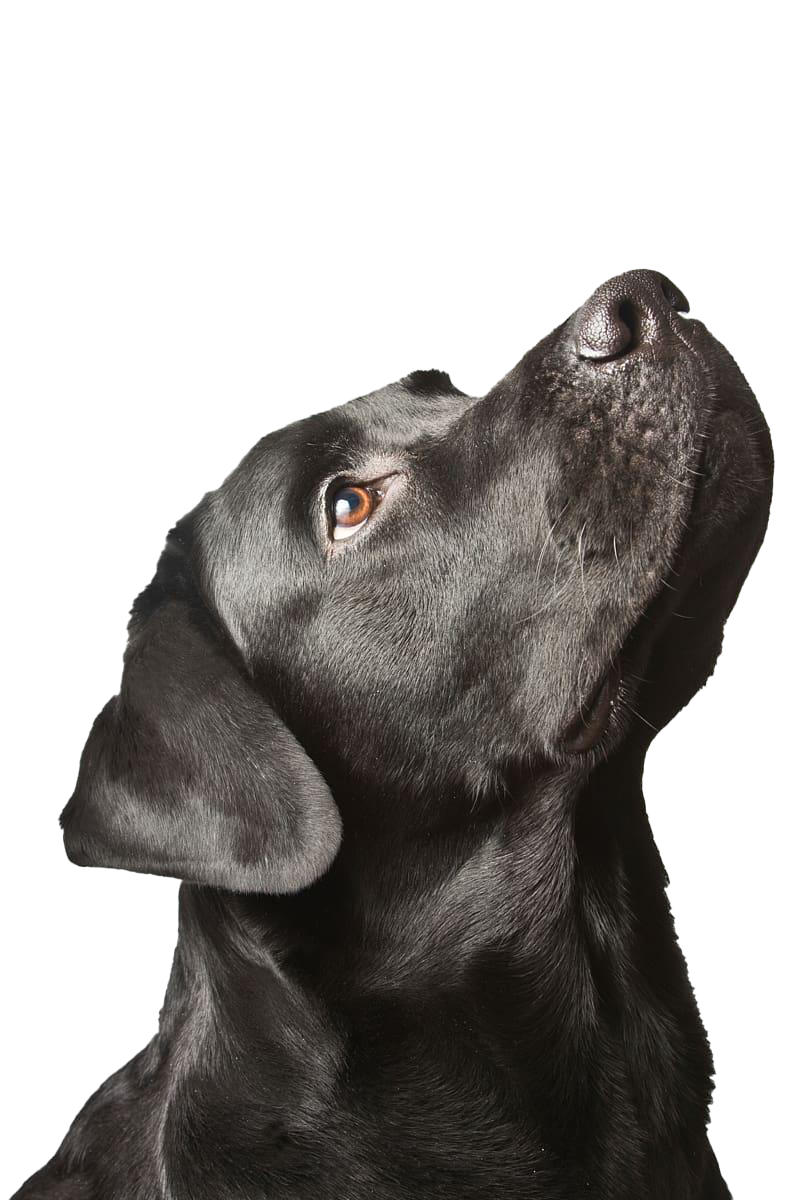
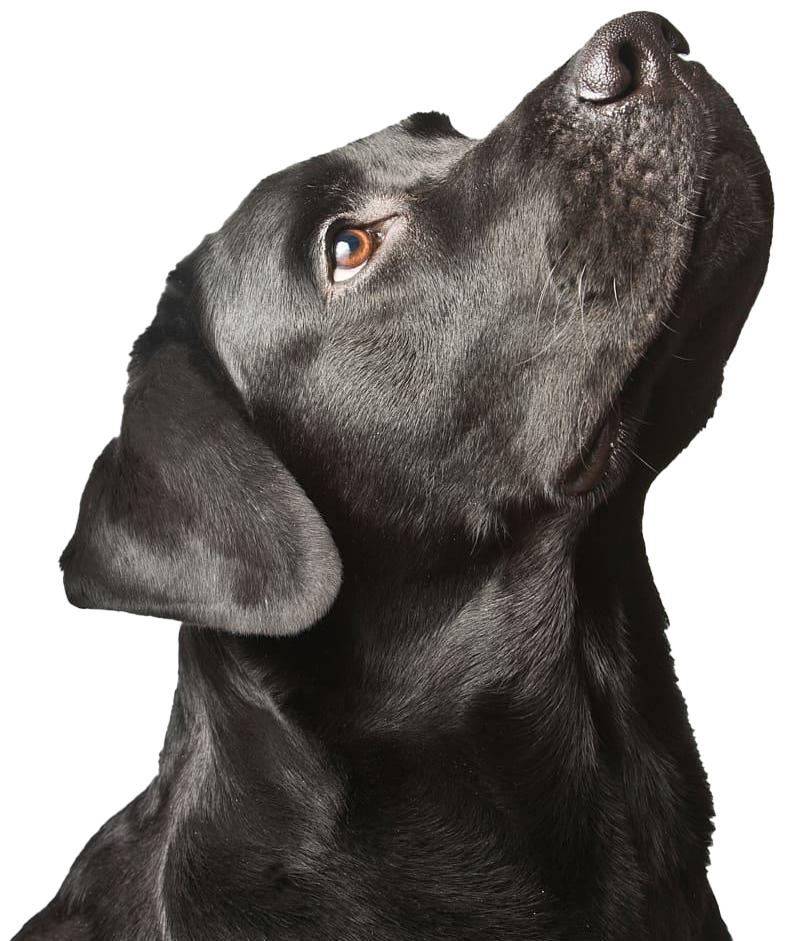
Add files via upload

diff --git a/html/cadastro.html b/html/cadastro.html
@@ -36,40 +36,43 @@
         </nav>
     </header>
     </section>
-
-    
-        <div class="cadastro">
+    <section class="cadastre">
+                
+        <div id="imagem">
             <img src="black dog 3.png">
-                    
-            <section class="frase-cadastro">
-                <div class="informacoes" >
+        </div>
+
+        <section class="frase-cadastro">
+            <div class="informacoes" >
                          
-                    <h1>Cadastre seu aumigo!</h1>
-                    <p>Se você tem um animal (cão/gato) para adoção ou se está procurando algum que você perdeu, faça seu cadastro aqui.
-                         Uma boa foto do animal é fundamental para o sucesso do anúncio.</p>
+                <h1>Cadastre seu aumigo!</h1>
+                <p>Se você tem um animal (cão/gato) para adoção ou se está procurando algum que você perdeu, faça seu cadastro aqui.
+                    Uma boa foto do animal é fundamental para o sucesso do anúncio.</p>
+                
                     <input type="file">
                     <select>
-                            <option>Espécie</option>
-                            <option>Cachorro</option>
-                            <option>Gato</option>
-                        </select>
-                        <select>
-                            <option>Sexo</option>
-                            <option>Fêmea</option>
-                            <option>Macho</option>
-                        </select>
-                        <select>
-                            <option>Porte</option>
-                            <option>Grande</option>
-                            <option>Médio</option>
-                            <option>Pequeno</option>
-                        </select>
+                        <option>Espécie</option>
+                        <option>Cachorro</option>
+                        <option>Gato</option>
+                    </select>
+                    <select>
+                        <option>Sexo</option>
+                        <option>Fêmea</option>
+                        <option>Macho</option>
+                    </select>
+                    <select>
+                        <option>Porte</option>
+                        <option>Grande</option>
+                        <option>Médio</option>
+                        <option>Pequeno</option>
+                    </select>
                         <div class="mais">
                         <h2>Fale um pouco mais sobre o bichinho.</h2>
                         <textarea></textarea><br><br>
                         <button>publicar</button>
                         </div>
-        </div>
-        
-            </section>
-</html>
+            </div>    
+        </section>
+    </section>
+</html> 
+

diff --git a/html/style.css b/html/style.css
@@ -19,9 +19,6 @@ body{
 
 .menu{
     background-color: white;
-    /* padding-bottom: 30px; */
-    /* padding-left: 160px; */
-    /* padding-right: 40px; */
     padding: 32px;
     display: flex;
     justify-content: space-around;
@@ -423,9 +420,6 @@ table{
     margin: 1vw;
     text-align: center;
     justify-content: space-evenly;
-    /* margin-top: 0; */
-    /* margin-right: 0; */
-    /* margin-bottom: 0; */
     display: flex;
     -webkit-animation: slide-in-bck-left 0.6s cubic-bezier(0.250, 0.460, 0.450, 0.940) both;
     animation: slide-in-bck-left 0.6s cubic-bezier(0.250, 0.460, 0.450, 0.940) both;
@@ -462,9 +456,6 @@ table{
 
 .menu-adote{
     background-color: white;
-    /* padding-bottom: 30px; */
-    /* padding-left: 160px; */
-    /* padding-right: 40px; */
     padding: 32px;
     display: flex;
     justify-content: space-around;
@@ -518,6 +509,29 @@ margin-top: 30px;
 
 /*cadastro*/
 
+div#imagem img {
+    width: 28vw;
+}
+
+section.cadastre {
+    display: flex;
+    flex-direction: row;
+    justify-content: center;
+    margin: 6% 6% 0;
+    gap: 14%;
+}
+
+div.informacoes h1 {
+    font-size: 40px;
+}
+
+div.informacoes p {
+    font-size: 20px;
+}
+
+div.informacoes h2 {
+    font-size: 22px;
+}
 
 /*denuncie*/
 
